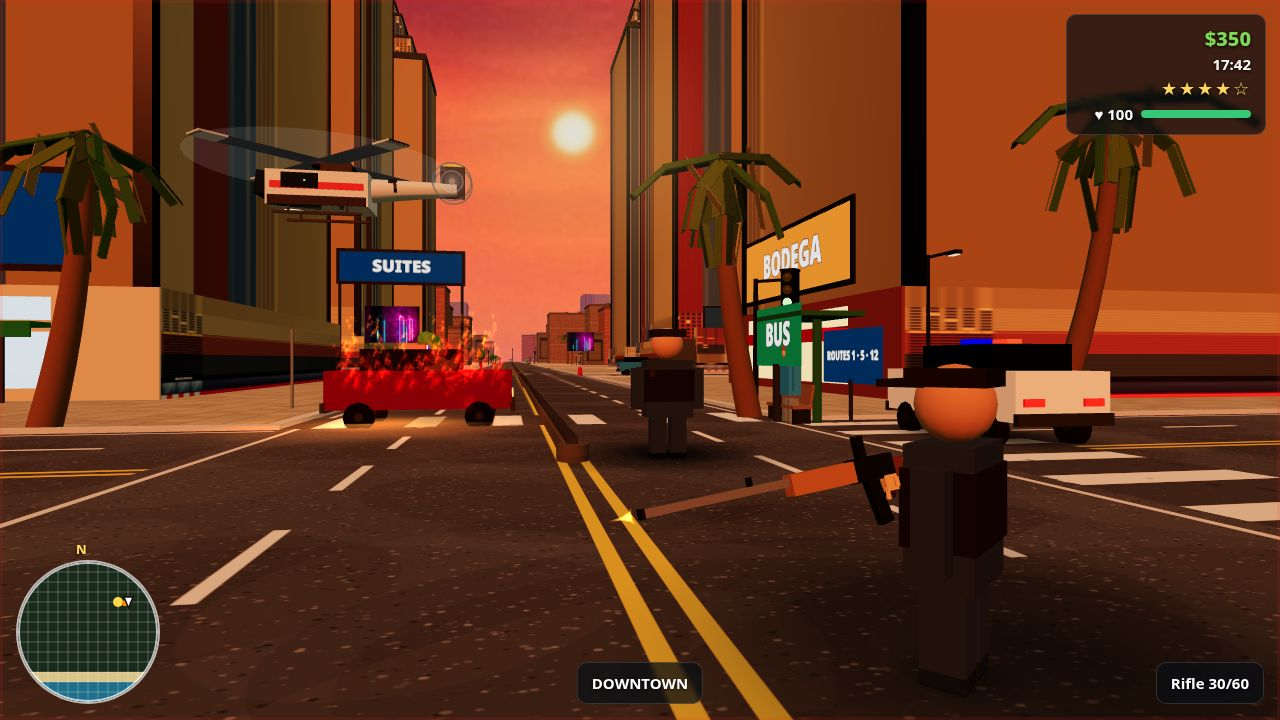
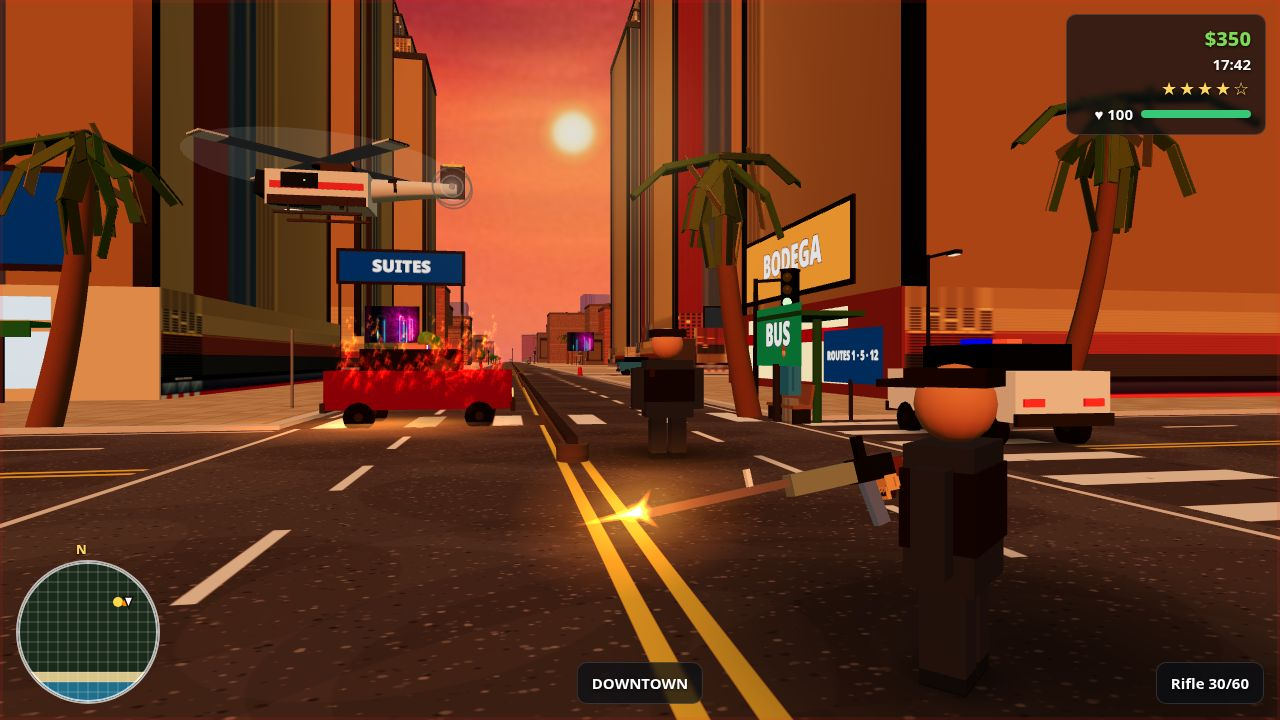
v56: flash nudge + flash-code revision, restore textures under recording

Changed region(s): [[0.4062, 0.6111, 0.7188, 0.825], [0.3438, 0.2139, 0.375, 0.3056]]

diff --git a/game/src/shots.js b/game/src/shots.js
@@ -92,6 +92,73 @@ function flashStarTex() {
   return _flashTex;
 }
 
+// Soft halo texture for the muzzle flash (v56): a radial glow —
+// white-hot at the centre, warm orange by the middle, transparent
+// at the edge. No spikes, no ring: it is the bloom around the star,
+// not a second star. Drawn once, cached, like flashStarTex.
+let _haloTex = null;
+function flashHaloTex() {
+  if (_haloTex) return _haloTex;
+  const c = document.createElement('canvas');
+  c.width = 128; c.height = 128;
+  const x = c.getContext('2d');
+  const g = x.createRadialGradient(64, 64, 0, 64, 64, 64);
+  g.addColorStop(0, 'rgba(255,250,235,1)');
+  g.addColorStop(0.25, 'rgba(255,220,150,0.85)');
+  g.addColorStop(0.55, 'rgba(255,160,60,0.35)');
+  g.addColorStop(1, 'rgba(255,140,40,0)');
+  x.fillStyle = g; x.fillRect(0, 0, 128, 128);
+  _haloTex = new CT(c);
+  _haloTex.colorSpace = SC;
+  return _haloTex;
+}
+
+// Muzzle flash, rebuilt (v56): one place that owns the whole flash —
+// the halo, the star layers and the screen-space nudge. It takes the
+// rifle group, reads the muzzle anchor the rifle already carries, and
+// puts every sprite at the same nudged screen point, all rotated to
+// the barrel's screen direction so the star reads long, not round.
+//
+// The nudge is in screen pixels (x right, y down): the anchor is
+// projected to the screen, shifted, and unprojected back to the same
+// depth, so the shift is exact in pixels whatever the camera does.
+// v56 nudges +9/-5 to land the core on the plan centre (633,511).
+//
+// spec: { nudge: [dx, dy], halo: [sx, sy, color, opacity] | null,
+//         layers: [[sx, sy, color], ...] } — layers draw back to
+// front, so the last one is the bright core on top.
+function flashAtMuzzle(game, rifle, spec) {
+  if (!rifle || !rifle.userData.muzzle) return;
+  game.updateCamera(1 / 60);
+  const mPos = new V3();
+  rifle.userData.muzzle.getWorldPosition(mPos);
+  const bDir = rifle.getWorldDirection(new V3());
+  const bEnd = mPos.clone().addScaledVector(bDir, 1.5);
+  game.camera.updateMatrixWorld();
+  const toScr = (v) => { const p = v.clone().project(game.camera); return [((p.x + 1) / 2) * 1280, ((1 - p.y) / 2) * 720]; };
+  const [mx, my] = toScr(mPos);
+  const [bx, by] = toScr(bEnd);
+  const ang = Math.atan2(-(by - my), bx - mx);
+  // Anchor: a touch forward of the muzzle along the barrel, then the
+  // screen-space nudge, unprojected back to the same depth.
+  const anchor = mPos.clone().addScaledVector(bDir, 0.06);
+  const p = anchor.clone().project(game.camera);
+  const nudge = spec.nudge || [0, 0];
+  const px = ((p.x + 1) / 2) * 1280 + nudge[0];
+  const py = ((1 - p.y) / 2) * 720 + nudge[1];
+  const pos = new V3((px / 1280) * 2 - 1, -((py / 720) * 2 - 1), p.z).unproject(game.camera);
+  const place = (map, w, h, col, op, order) => {
+    const s = new THREE.Sprite(new THREE.SpriteMaterial({ map, color: col, transparent: true, opacity: op, blending: AB, depthWrite: false, depthTest: false }));
+    s.material.rotation = ang;
+    s.position.copy(pos);
+    s.scale.set(w, h, 1);
+    s.renderOrder = order;
+    game.scene.add(s);
+  };
+  if (spec.halo) place(flashHaloTex(), spec.halo[0], spec.halo[1], spec.halo[2], spec.halo[3], 5);
+  for (const [lx, ly, col] of spec.layers) place(flashStarTex(), lx, ly, col, 0.95, 6);
+}
+
 // A soft additive light pool on the ground (the pool texture).
 function pool(g, x, z, r, o, y = 0.07) {
   const t = g.textures && g.textures.pool;
@@ -1383,31 +1450,16 @@ function stageSunset(game) {
   game.camPitch = 0.0;
   game.camLookOff = 0.5;
   setFov(game, 54);
-  // v55: THREE-LAYER flash, 64x40 px centred on the muzzle (633,511):
-  // outer #ff7a1a, mid #ffc247, near-white core #fffbe6 ~20x12. The
-  // v54 single star (20x15, all yellow) read as road paint on the
-  // double-yellow line; the white core is what separates it. No halo
-  // (costs ~+250 B, not the plan's +4-12 B) — the white core does it.
-  if (fgRifle.userData.muzzle) {
-    game.updateCamera(1 / 60);
-    const mPos = new V3();
-    fgRifle.userData.muzzle.getWorldPosition(mPos);
-    const bDir = fgRifle.getWorldDirection(new V3());
-    const bEnd = mPos.clone().addScaledVector(bDir, 1.5);
-    game.camera.updateMatrixWorld();
-    const toScr = (v) => { const p = v.clone().project(game.camera); return [((p.x + 1) / 2) * 1280, ((1 - p.y) / 2) * 720]; };
-    const [mx, my] = toScr(mPos);
-    const [bx, by] = toScr(bEnd);
-    const ang = Math.atan2(-(by - my), bx - mx);
-    for (const [sx, sy, col] of [[0.64, 0.4, 0xff7a1a], [0.42, 0.26, 0xffc247], [0.28, 0.2, 0xfffbe6]]) {
-      const flash = new THREE.Sprite(new THREE.SpriteMaterial({ map: flashStarTex(), color: col, transparent: true, opacity: 0.95, blending: AB, depthWrite: false, depthTest: false }));
-      flash.material.rotation = ang;
-      flash.position.copy(mPos).addScaledVector(bDir, 0.06);
-      flash.scale.set(sx, sy, 1);
-      flash.renderOrder = 6;
-      game.scene.add(flash);
-    }
-  }
+  // v56: the flash goes through flashAtMuzzle now — same three star
+  // layers as v55 (outer #ff7a1a, mid #ffc247, near-white core
+  // #fffbe6), plus a soft halo behind them (free here: shots.js is
+  // outside the dossier text), and a +9/-5 px nudge that lands the
+  // core on the plan centre (633,511) instead of (624,516).
+  flashAtMuzzle(game, fgRifle, {
+    nudge: [9, -5],
+    halo: [1.15, 0.72, 0xff9a3c, 0.5],
+    layers: [[0.64, 0.4, 0xff7a1a], [0.42, 0.26, 0xffc247], [0.28, 0.2, 0xfffbe6]],
+  });
 }
 
 export const SHOT_ORDER = ['chase', 'gunfight', 'downtown', 'sunset'];
